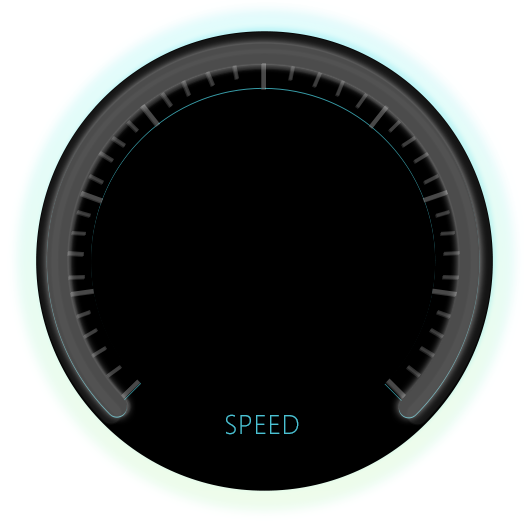
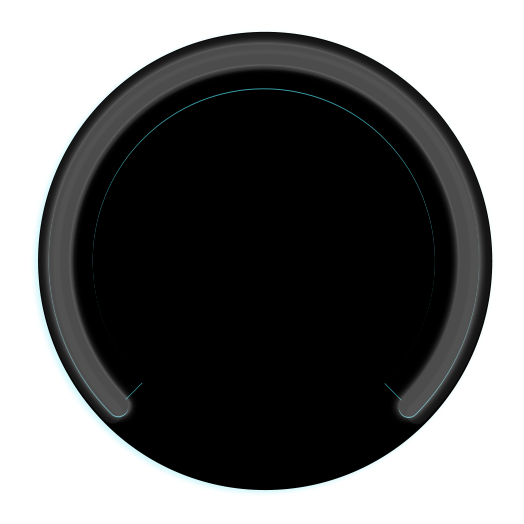
Auto rescan after a period to make scan stable; Make map locate your position correctly;

diff --git a/mScooterNow/Scan/spgScanViewController.m b/mScooterNow/Scan/spgScanViewController.m
@@ -35,6 +35,7 @@ static const NSInteger scooterTimeArrayCount=10;
     
     UIImage *dotImage;
     NSTimer *observerTimer;
+    NSTimer *loopScanTimer;
     
     spgScooterPeripheral *visibleScooter;
 }
@@ -133,8 +134,10 @@ static const NSInteger scooterTimeArrayCount=10;
     
     //spin two circle before real scan.
     dispatch_after(dispatch_time(DISPATCH_TIME_NOW, 3*NSEC_PER_SEC), dispatch_get_main_queue(), ^{
-        //observe peripheral state
-        observerTimer=[NSTimer scheduledTimerWithTimeInterval:0.2 target:self selector: @selector(timerElapsed) userInfo:nil repeats:YES];
+        //Clear
+        visibleScooter=nil;
+        [self.foundPeripherals removeAllObjects];
+        [self resetAvailableScooterPos];
         
         //ui update
         self.radarImage.hidden=NO;
@@ -142,14 +145,13 @@ static const NSInteger scooterTimeArrayCount=10;
             [flagView removeFromSuperview];
         }
         
-        //start scan
-        visibleScooter=nil;
-        [self.foundPeripherals removeAllObjects];
+        //observe peripheral state
+        observerTimer=[NSTimer timerWithTimeInterval:0.2 target:self selector:@selector(timerElapsed:) userInfo:nil repeats:YES];
+        [[NSRunLoop mainRunLoop] addTimer:observerTimer forMode:NSRunLoopCommonModes];
         
+        //start scan
         if(!isScanning && self.bleService.centralManager.state==CBCentralManagerStatePoweredOn)
         {
-            
-            
             BOOL isPersonal=[[spgMScooterUtilities getPreferenceWithKey:kMyScenarioModeKey] isEqualToString:kScenarioModePersonal];
             NSString *knownUUIDString=[spgMScooterUtilities getPreferenceWithKey:kMyPeripheralIDKey];
             
@@ -168,11 +170,13 @@ static const NSInteger scooterTimeArrayCount=10;
                 else
                 {
                     [self.bleService startScan];
+                    [self loopScan];
                 }
             }
             else
             {
                 [self.bleService startScan];
+                [self loopScan];
             }
             
             isScanning=YES;
@@ -182,6 +186,9 @@ static const NSInteger scooterTimeArrayCount=10;
 
 -(void)stopScan
 {
+    //stop loopScan timer
+    [loopScanTimer invalidate];
+    
     //stop observe
     [observerTimer invalidate];
     
@@ -197,7 +204,20 @@ static const NSInteger scooterTimeArrayCount=10;
     }
 }
 
--(void)timerElapsed
+-(void)loopScan
+{
+    loopScanTimer=[NSTimer timerWithTimeInterval:110 target:self selector:@selector(autoRestartScan:) userInfo:nil repeats:YES];
+    [[NSRunLoop mainRunLoop] addTimer:loopScanTimer forMode:NSRunLoopCommonModes];
+}
+
+-(void)autoRestartScan:(NSTimer *)timer
+{
+    [self.bleService stopScan];
+    [self.bleService startScan];
+}
+
+//observe peripheral state
+-(void)timerElapsed:(NSTimer *)timer
 {
     NSDate *dateNow=[[NSDate alloc] initWithTimeIntervalSinceNow:0];
     NSMutableArray *scooters=[NSMutableArray arrayWithArray:self.foundPeripherals];
@@ -306,19 +326,6 @@ static const NSInteger scooterTimeArrayCount=10;
     [UIView animateWithDuration:1.5 delay:0 options:(UIViewAnimationOptionRepeat|UIViewAnimationOptionAutoreverse) animations:^{view.alpha=1.0; view.transform=CGAffineTransformIdentity;} completion:nil];
 }
 
--(void)scaleInAnimation:(UIView *)view
-{
-    view.alpha=0;
-    view.transform=CGAffineTransformScale(CGAffineTransformIdentity, 0.1, 0.1);
-    [UIView animateWithDuration:0.5 delay:0 options:UIViewAnimationOptionCurveEaseIn animations:^{view.transform=CGAffineTransformIdentity;view.alpha=1;} completion:nil];
-}
-
--(void)scaleOutAnimation:(UIView *)view
-{
-    view.transform=CGAffineTransformIdentity;
-    [UIView animateWithDuration:0.5 delay:0 options:(UIViewAnimationOptionRepeat|UIViewAnimationOptionAutoreverse) animations:^{view.transform=CGAffineTransformScale(CGAffineTransformIdentity, 0.1, 0.1);view.alpha=0;} completion:nil];
-}
-
 #pragma mark - navigation
 
 -(void)navigateWithPeripheral:(CBPeripheral *) peripheral
@@ -370,7 +377,7 @@ static const NSInteger scooterTimeArrayCount=10;
 -(void)centralManager:(CBCentralManager *)central didDiscoverPeripheral:(CBPeripheral *)peripheral advertisementData:(NSDictionary *)advertisementData RSSI:(NSNumber *)RSSI
 {
     //NSString *name = advertisementData[kCBAdvDataLocalName]; sometimes nil
-    // scooter
+    //scooter
     NSDate *dateNow=[NSDate date];
     NSDictionary *serviceData=advertisementData[kCBAdvDataServiceData];
     CBUUID* batteryUUID=[CBUUID UUIDWithString:kBatteryServiceUUID];
@@ -398,6 +405,8 @@ static const NSInteger scooterTimeArrayCount=10;
         [scooter.RecentTimeArray removeObjectAtIndex:0];
         [scooter.RecentTimeArray addObject:dateNow];
     }
+    
+    //NSLog(@"%@",advertisementData);
 }
 
 #pragma - utilities
@@ -523,6 +532,23 @@ static const NSInteger scooterTimeArrayCount=10;
     scooterPos[9]= CGPointMake(54, 32);
     
     availableScooterPos=[NSMutableArray array];
+    for(int i=0;i<scooterCount;i++)
+    {
+        [availableScooterPos addObject:[NSNumber numberWithInt:i]];
+    }
+}
+
+-(void)resetAvailableScooterPos
+{
+    if(availableScooterPos)
+    {
+        [availableScooterPos removeAllObjects];
+    }
+    else
+    {
+        availableScooterPos=[NSMutableArray array];
+    }
+    
     for(int i=0;i<scooterCount;i++)
     {
         [availableScooterPos addObject:[NSNumber numberWithInt:i]];

diff --git a/mScooterNow/BLE/spgBLEService.m b/mScooterNow/BLE/spgBLEService.m
@@ -39,12 +39,8 @@ static spgBLEService *sharedInstance=nil;
     self.centralManager=[[CBCentralManager alloc] initWithDelegate:self queue:nil options:nil];
     
     //initilize interested service
-    CBUUID *speedServiceUUID=CBUUID(kSpeedCharacteristicUUID);
-    CBUUID *batteryServiceUUID=CBUUID(kBatteryCharacteristicUUID);
     CBUUID *cameraServiceUUID=CBUUID(kCameraServiceUUID);
-    CBUUID *powerServiceUUID=CBUUID(kPowerServiceUUID);
-    CBUUID *modeServiceUUID=CBUUID(kModeServiceUUID);
-    interestedServices=@[speedServiceUUID,batteryServiceUUID,cameraServiceUUID,modeServiceUUID,powerServiceUUID];
+    interestedServices=@[cameraServiceUUID];
     
     return self;
 }
@@ -54,7 +50,7 @@ static spgBLEService *sharedInstance=nil;
 -(void)startScan
 {
     [spgMScooterUtilities savePreferenceWithKey:kAutoReconnectUUIDKey value:nil];
-    [self.centralManager scanForPeripheralsWithServices:nil options:@{CBCentralManagerScanOptionAllowDuplicatesKey:@YES}];
+    [self.centralManager scanForPeripheralsWithServices:interestedServices options:@{CBCentralManagerScanOptionAllowDuplicatesKey:@YES}];
 }
 
 -(void)stopScan

diff --git a/mScooterNow/Dashboard/spgDashboardViewController.m b/mScooterNow/Dashboard/spgDashboardViewController.m
@@ -71,21 +71,21 @@
 
 #pragma mark - gesture methods
 
-//only change mode when connected
+//change mode when connected or user is not in GaugeView
 -(void)reportHorizontalLeftSwipe:(UIGestureRecognizer *)recognizer
 {
     CBPeripheralState currentState=[[spgBLEService sharedInstance] peripheral].state;
-    if(currentState==CBPeripheralStateConnected)
+    if(currentState==CBPeripheralStateConnected||self.GaugeView.hidden)
     {
         [self switchViewMode:YES];
     }
 }
 
-//only change mode when connected
+//change mode when connected or user is not in GaugeView
 -(void)reportHorizontalRightSwipe:(UIGestureRecognizer *)recognizer
 {
     CBPeripheralState currentState=[[spgBLEService sharedInstance] peripheral].state;
-    if(currentState==CBPeripheralStateConnected)
+    if(currentState==CBPeripheralStateConnected||self.GaugeView.hidden)
     {
         [self switchViewMode:NO];
     }

diff --git a/mScooterNow/AR/spgMapViewController.m b/mScooterNow/AR/spgMapViewController.m
@@ -11,6 +11,8 @@
 
 @interface spgMapViewController ()
 
+@property(retain,nonatomic) CLLocationManager *locationManager;
+
 @end
 
 @implementation spgMapViewController
@@ -38,7 +40,19 @@
     
     self.mapView.pitchEnabled=false;
     self.mapView.rotateEnabled=false;
-    self.mapView.showsUserLocation=YES;
+    
+    //set locationManager
+    self.locationManager=[[CLLocationManager alloc] init];
+    
+    if(IS_OS_8_OR_LATER)
+    {
+        [self.locationManager requestWhenInUseAuthorization];
+    }
+    
+    if([CLLocationManager authorizationStatus]==kCLAuthorizationStatusAuthorized)
+    {
+        self.mapView.showsUserLocation=YES;
+    }
 }
 
 -(void)viewWillAppear:(BOOL)animated

diff --git a/mScooterNow/Dashboard/spgGaugesViewController.m b/mScooterNow/Dashboard/spgGaugesViewController.m
@@ -217,6 +217,7 @@
         }
     }
     
+    //button animation
     if(self.AddButton.hidden!=addButtonOldHidden)
     {
         if(self.AddButton.hidden)
@@ -240,6 +241,9 @@
             [self breathAnimation:self.ConnectButton];
         }
     }
+    
+    //SPEED Label
+    self.SpeedLabel.hidden=!(self.AddButton.hidden && self.ConnectButton.hidden);
 }
 
 -(void)breathAnimation:(UIView *)view

diff --git a/mScooterNow/Dashboard/spgGaugesViewController.h b/mScooterNow/Dashboard/spgGaugesViewController.h
@@ -19,6 +19,7 @@
 @property (weak, nonatomic) IBOutlet UIImageView *batteryBgImage;
 @property (weak, nonatomic) IBOutlet UILabel *BatteryLabel;
 @property (weak, nonatomic) IBOutlet UILabel *DistanceLabel;
+@property (weak, nonatomic) IBOutlet UILabel *SpeedLabel;
 
 @property (weak, nonatomic) IBOutlet UIButton *AddButton;
 @property (weak, nonatomic) IBOutlet UIButton *ConnectButton;

diff --git a/mScooterNow/Settings/spgSettingsViewController.m b/mScooterNow/Settings/spgSettingsViewController.m
@@ -82,6 +82,7 @@
 - (IBAction)PasswordSwitchChanged:(UISwitch *)sender {
     NSString *isOn=sender.isOn?@"YES":@"NO";
     [spgMScooterUtilities savePreferenceWithKey:kPasswordOnKey value:isOn];
+    [spgMScooterUtilities savePreferenceWithKey:kAutoReconnectUUIDKey value:nil];
 }
 
 @end

diff --git a/mScooterNow/spgMScooterDefinitions.h b/mScooterNow/spgMScooterDefinitions.h
@@ -9,6 +9,8 @@
 #ifndef mScooterNow_spgMScooterDefinitions_h
 #define mScooterNow_spgMScooterDefinitions_h
 
+#define IS_OS_8_OR_LATER ([[[UIDevice currentDevice] systemVersion] floatValue] >= 8.0)
+
 #define kScooterStationPrefix @"BIC "
 #define kScooterDeviceName @"SCOOTER"
 
